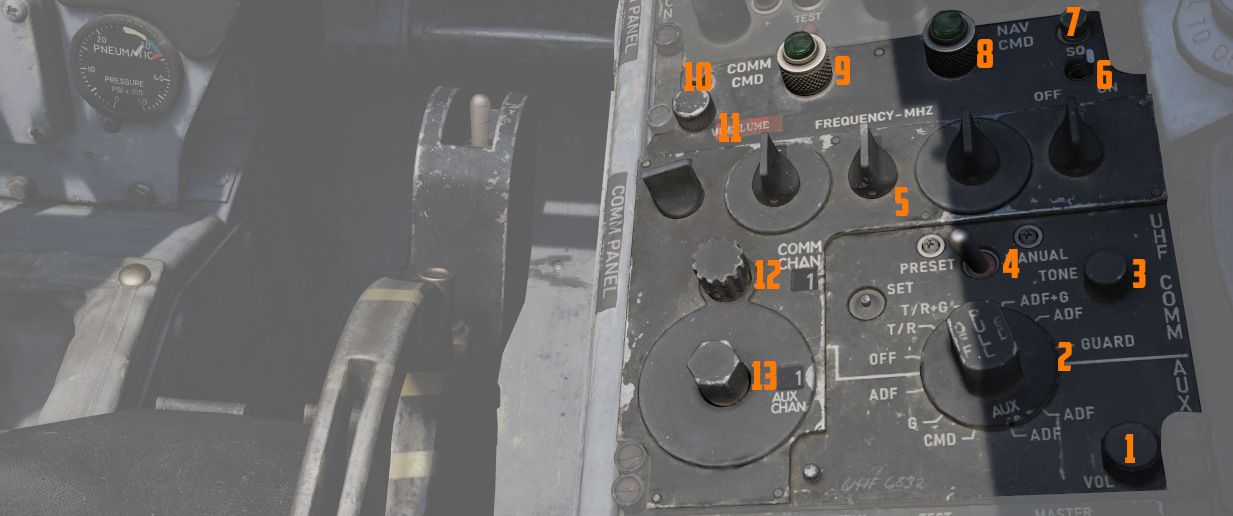
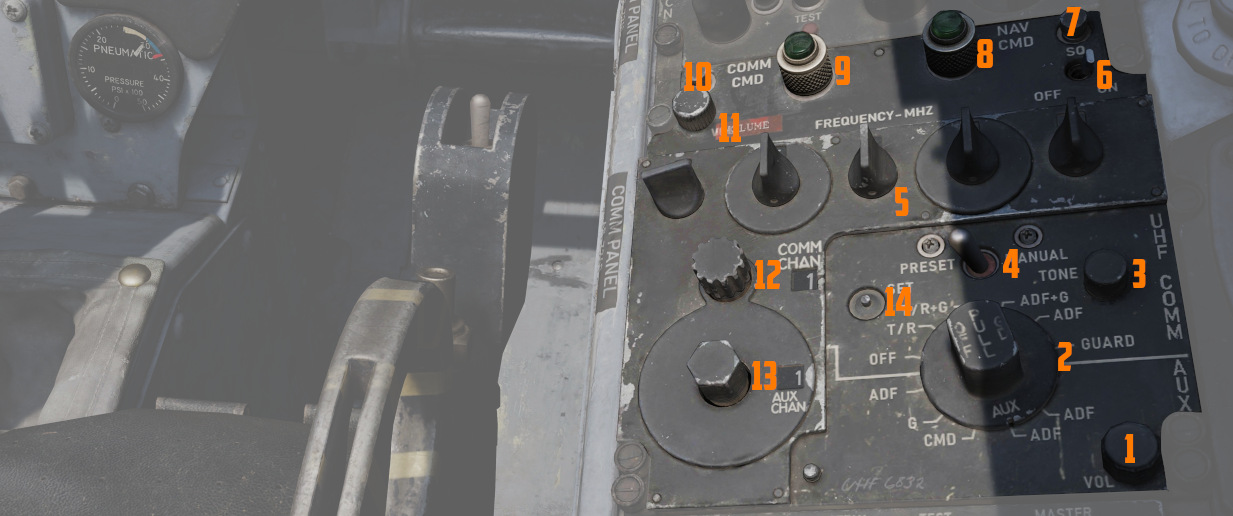
reworked PaveSpike pictures and added set button description

diff --git a/theme/visual.css b/theme/visual.css
@@ -180,3 +180,7 @@ ol.chapter {
 #content table td {
   max-width: 250px;
 }
+
+.num {
+  color: orange;
+}

diff --git a/src/systems/weapon_systems/pave_spike/other.md b/src/systems/weapon_systems/pave_spike/other.md
@@ -49,7 +49,7 @@ it irreparably.
 A broken pod is generally indicated by the MALF lamp going on and the display
 being all black.
 
-![pave_spike_melted](../../../img/pave_spike_melted.jpg)
+![pave_spike_melted](../../../img/wso_target_designator_broken_pod.jpg)
 
 To prolong use of the pod and prevent overheating, limit slow and low-level
 flight, as well as continuous use of the laser.
@@ -68,7 +68,7 @@ an in-flight recalibration by the WSO may be necessary.
 Therefore, the Target Designator Control panel provides three knobs to adjust the boresight position
 in all three axis (azimuth, elevation and roll) within 2.5 degrees in either direction.
 
-![Boresight Knobs](../../../img/pave_spike_boresight_knobs.jpg)
+![Boresight Knobs](../../../img/wso_target_designator_boresight_knobs.jpg)
 
 Under perfect conditions, the pod is boresighted parallel to the aircraft datum line.
 However, due to lack of a calibration reference, the WSO can only achieve a rough alignment.
@@ -77,8 +77,7 @@ As first step, the optical sight should be put into A/G mode and the reticle mus
 around 30 mils. At this setting, the correct boresight position intersects with the
 sight reticle at a distance of roughly 20,000 ft to 60,000 ft (200 to 600 indicated on the Range Display).
 
-![Sight Settings](../../../img/pave_spike_boresight_settings.jpg)
-
+![Sight Settings](../../../img/pilot_air_to_ground_30_mil_setting.jpg)
 Next, the aircraft has to be maneuvered to place and hold a distant object, such as a building,
 on the pipper of the optical sight.
 
@@ -125,7 +124,7 @@ illuminated.
 All lights on the Target Designator Set Control illuminate with full brightness.
 The pod does not need to be powered up for this test.
 
-![pave_spike_self_test](../../../img/pave_spike_self_test.jpg)
+![pave_spike_self_test](../../../img/wso_target_designator_bit_0.jpg)
 
 GO/MALF do not indicate test results in this mode.
 
@@ -170,10 +169,10 @@ When the laser fires, a 5 second test program starts, with the sensor measuring
 the laser energy. After the 5 second test, either GO or MALF illuminate to
 indicate whether the energy level was above the required minimum.
 
-To pilot can assist in telling the WSO that the test position has been reached,
-as indicated by the Azimuth-Elevation Indicator.
+![pave_spike_bit_3_az_el](../../../img/pilot_los_bit_3.jpg)
 
-![pave_spike_bit_3_az_el](../../../img/pave_spike_bit_3_az_el.jpg)
+The pilot can assist in telling the WSO that the test position has been reached,
+as indicated by the Azimuth-Elevation Indicator (1 and 2).
 
 ### Bit 4
 
@@ -181,7 +180,7 @@ The system tests the ranging computation by feeding a simulated laser slant
 range of 2100 ft (±200). The pilot can confirm this using the Range Indicator
 readout.
 
-![pave_spike_bit_4_range](../../../img/pave_spike_bit_4_range.jpg)
+![pave_spike_bit_4_range](../../../img/pilot_range_indicator_bit_4.jpg)
 
 After about 8 to 14 seconds, the test is finished and either GO or MALF is lit.
 

diff --git a/src/systems/weapon_systems/pave_spike/weapon_release_modes.md b/src/systems/weapon_systems/pave_spike/weapon_release_modes.md
@@ -13,8 +13,8 @@ mode.
 The WRCS has to be integrated with the pod for it to be available, and the pilot
 must select TGT FIND as delivery mode, as well as WRCS on the range indicator.
 
-![pave_spike_weapon_sel_tgt_find](../../../img/pave_spike_weapon_sel_tgt_find.jpg)
-![pave_spike_range_mode_wrcs](../../../img/pave_spike_range_mode_wrcs.jpg)
+![pave_spike_weapon_sel_tgt_find](../../../img/pilot_weapon_selector_tgt_find.jpg)
+![pave_spike_range_mode_wrcs](../../../img/pilot_range_indicator_wrcs_setting.jpg)
 
 This mode works the same as the Dive Toss mode of the WRCS, just that it will
 use the pods computed slant range and target instead.
@@ -31,14 +31,14 @@ from maximally 15 seconds.
 Release on range is mostly a backup mode. The pilot must select TGT FIND as
 delivery mode, and ROR on the range indicator.
 
-![pave_spike_weapon_sel_tgt_find](../../../img/pave_spike_weapon_sel_tgt_find.jpg)
-![pave_spike_range_mode_ror](../../../img/pave_spike_range_mode_ror.jpg)
+![pave_spike_weapon_sel_tgt_find](../../../img/pilot_weapon_selector_tgt_find.jpg)
+![pave_spike_range_mode_ror](../../../img/pilot_range_indicator_ror_setting.jpg)
 
 Weapons will be released automatically, as soon as the computed slant range is
 less than the set desired release range. The range is configured on the range
 indicator, by setting the mode to SET and rotating the knob below the display.
 
-![pave_spike_ror_controls](../../../img/pave_spike_ror_controls.jpg)
+![pave_spike_ror_controls](../../../img/pilot_range_indicator_set.jpg)
 
 Best results are achieved during level flight.
 

diff --git a/src/systems/weapon_systems/pave_spike/overview.md b/src/systems/weapon_systems/pave_spike/overview.md
@@ -51,7 +51,7 @@ time to release from maximally 15 seconds.
 The cues also indicate various situations related to laser operation.
 
 | Indication    | T0                                    | TTG                                     |
-| ------------- | ------------------------------------- | --------------------------------------- |
+|---------------|---------------------------------------|-----------------------------------------|
 | not shown     | not in TRACK mode                     | not in TRACK mode                       |
 | steady        | commanded to fire laser (full action) | firing laser, accepted range            |
 | flashing fast | not commanded to fire laser           | not firing laser or target too far away |
@@ -72,8 +72,13 @@ consists of:
 
 While the display is shown on the DSCG screens in both cockpits.
 
-![Pilot System Overview](../../../img/eotgt_pilot_overview.jpg)
-![WSO System Overview](../../../img/eotgt_wso_overview.jpg)
+![Pilot System Overview](../../../img/pilot_pave_spike_overview.jpg)
+_(1) Range Indicator, (2) Brightness Control knobs, (3) DSCG Display, (4) Azimuth-Elevation (LOS)
+Indicator, (5) Weapon select knob_
+
+![WSO System Overview](../../../img/wso_pave_spike_overview.jpg)
+_(1) Video Select button, (2) DSCG Display, (3) DSCG Control knobs, (4) Target Designator
+Controls, (5) Laser Code Designator, (6) Antenna Hand Control_
 
 ### Azimuth-Elevation Indicator
 

diff --git a/src/cockpit/pilot/left_console/center_section.md b/src/cockpit/pilot/left_console/center_section.md
@@ -107,7 +107,7 @@ further information.
 
 ### AFCS Mode Switch
 
-Enables [AFCS](../../../systems/flight_controls_gear/flight_controls.md#auotmatic-flight-control-system-afcs)
+The two position switch (2) enables [AFCS](../../../systems/flight_controls_gear/flight_controls.md#auotmatic-flight-control-system-afcs)
 mode, which can maintain and hold maneuvers and attitudes at up to ±70 degrees of pitch, 70
 degrees of bank, and in all 360 degrees of azimuth. If engaged when the airplane is less than ± 5°
 from wings level, then the the airplane will maintain a **wings level attitude**,
@@ -116,6 +116,6 @@ a rapid control input.
 
 ### Altitude Hold Switch
 
-Activates the altitude hold function of
+The two position switch (3) activates the altitude hold function of
 the [AFCS](../../../systems/flight_controls_gear/flight_controls.md#auotmatic-flight-control-system-afcs)
 which will maintain current baromertic altitude.

diff --git a/src/cockpit/pilot/right_console/front_section.md b/src/cockpit/pilot/right_console/front_section.md
@@ -123,6 +123,9 @@ changed from in the cockpit.
 The Aux Volume Control knob (1) on the lower right of the panel
 raises and lowers the volume of the Aux receiver channel (12 and 13).
 
+The Set button (14) can be used to save the channel frequency that is currently selected by the
+Frequency knobs. The frequency will be saved as the currently selected channel.
+
 ### Tone Button
 
 The Tone Pushbutton (3) is used for transmission of a Time of Day (TOD) signal along with a tone

diff --git a/src/cockpit/wso/left_console/aft_section.md b/src/cockpit/wso/left_console/aft_section.md
@@ -113,6 +113,9 @@ changed from in the cockpit.
 The Aux Volume Control knob (1) on the lower right of the panel
 raises and lowers the volume of the Aux receiver channel (12 and 13).
 
+The Set button (14) can be used to save the channel frequency that is currently selected by the
+Frequency knobs. The frequency will be saved as the currently selected channel.
+
 ### Tone Button
 
 The Tone Pushbutton (3) is used for transmission of a Time of Day (TOD) signal along with a tone
